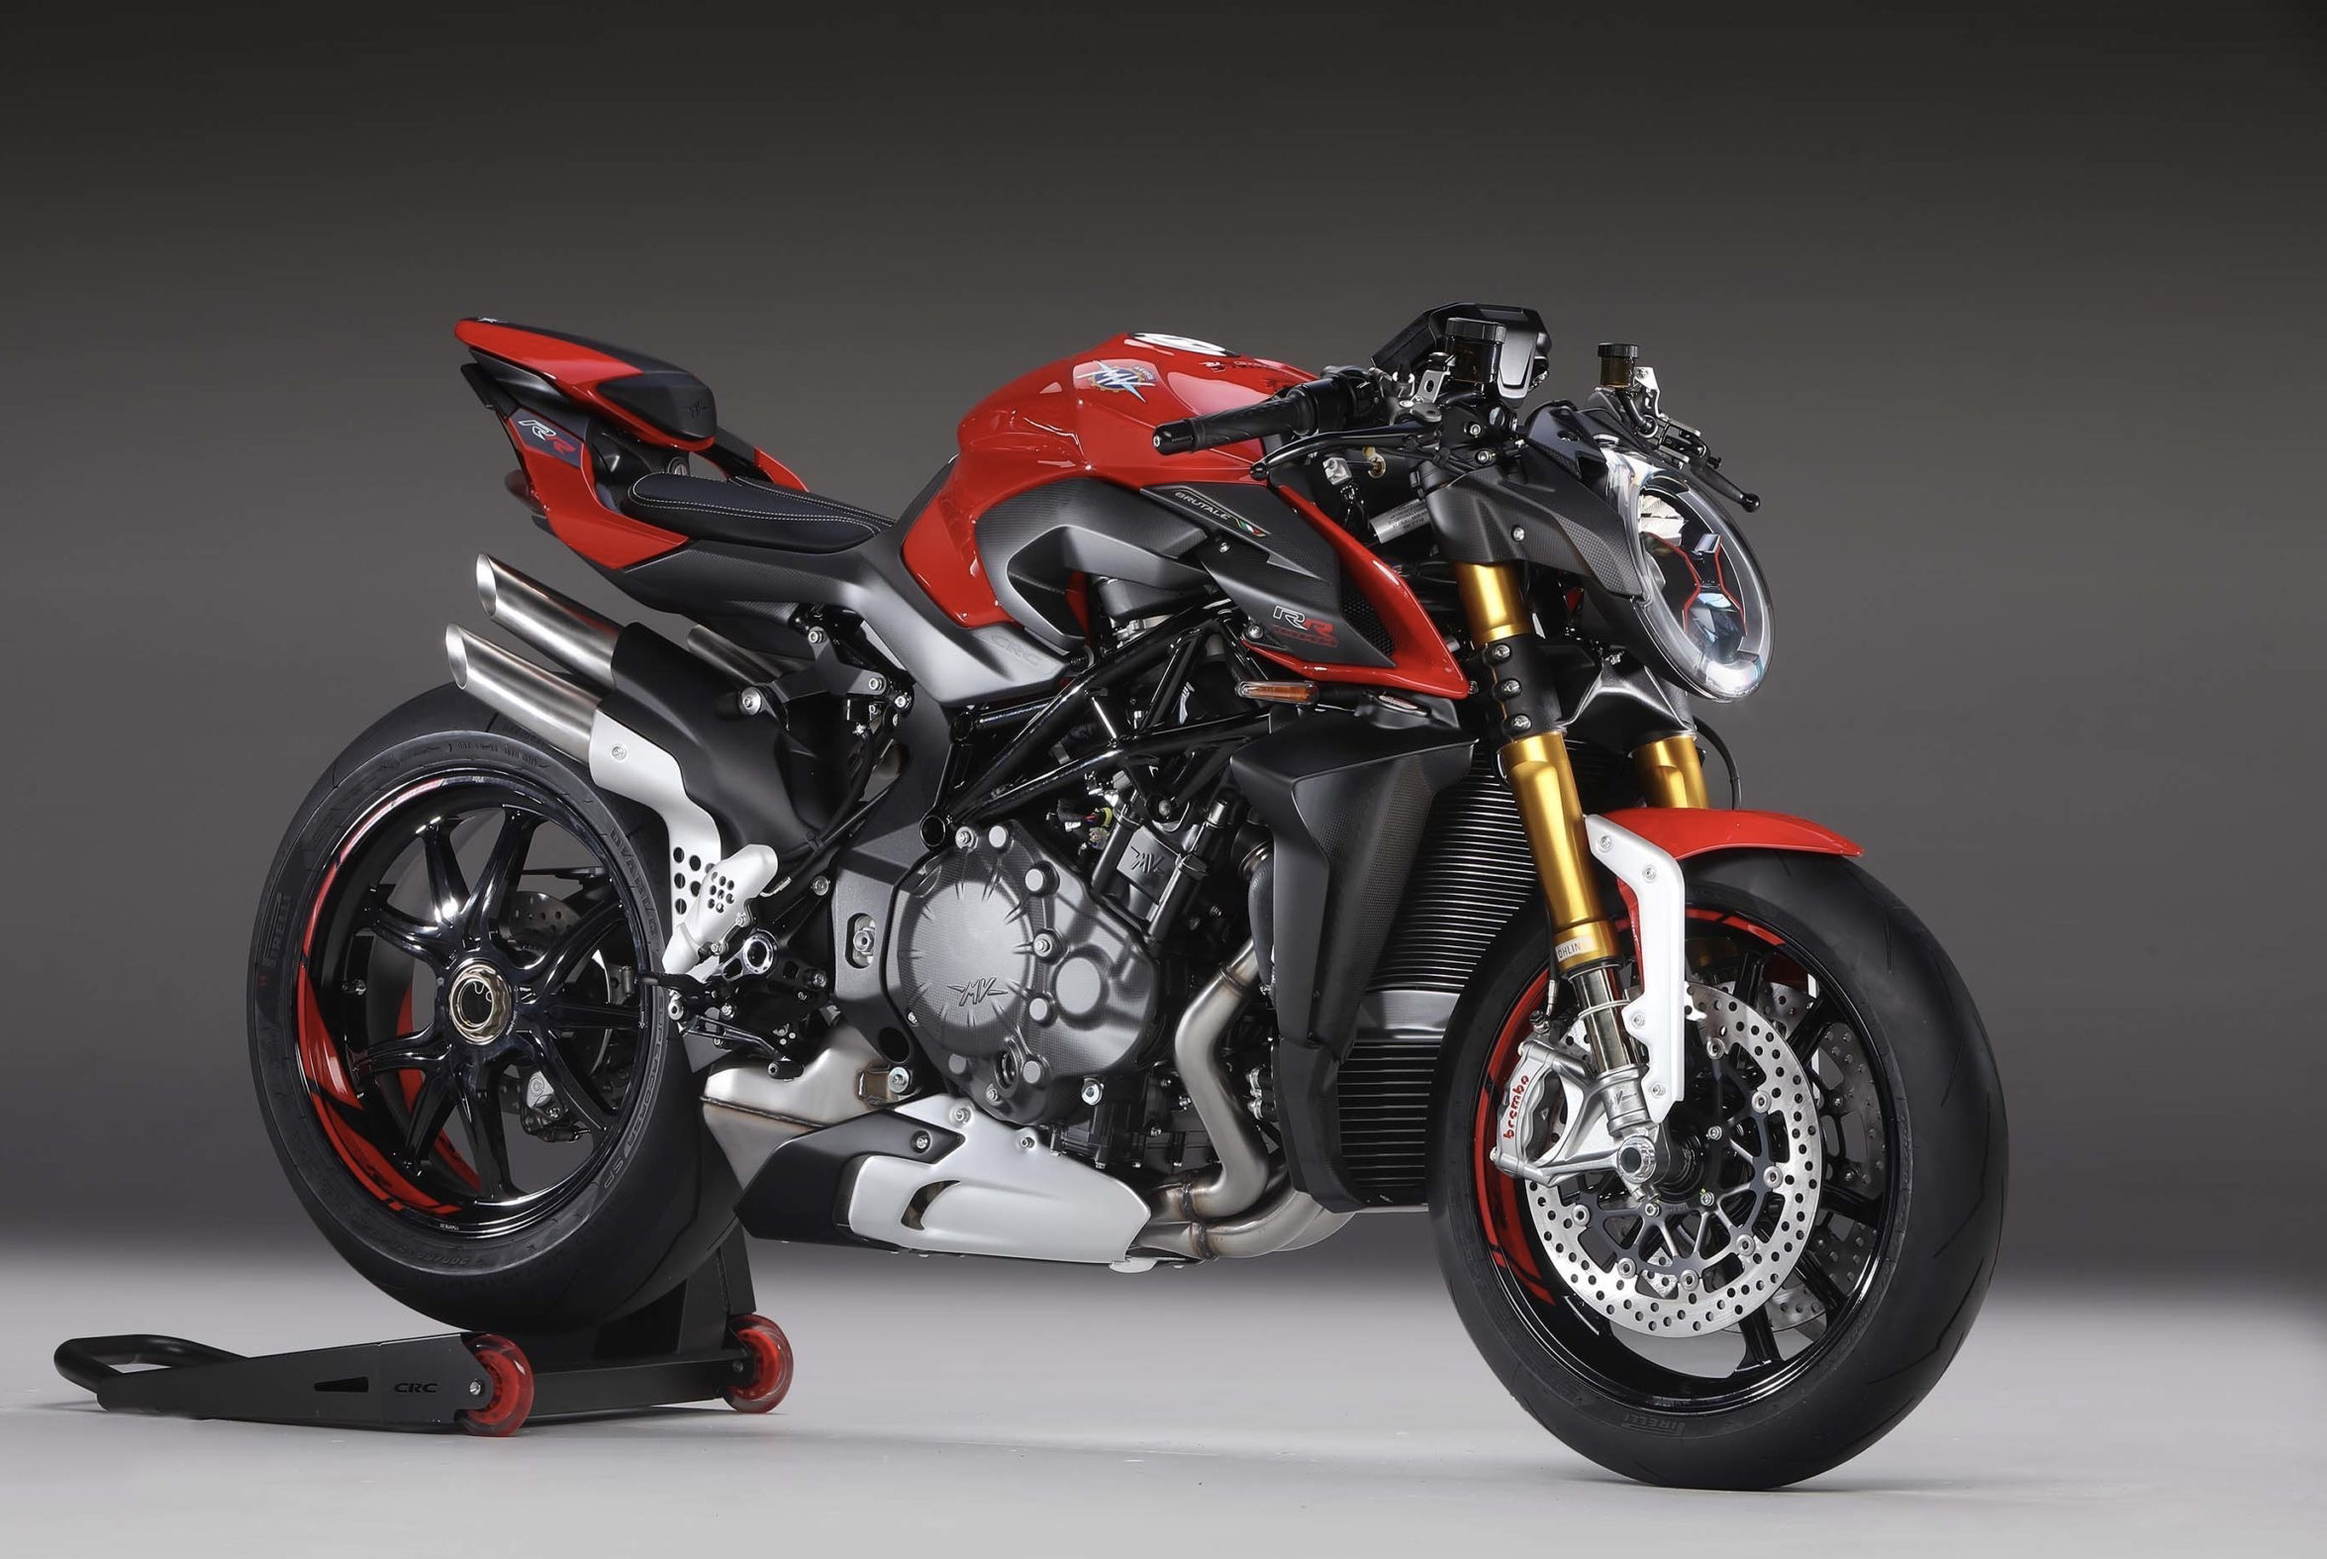
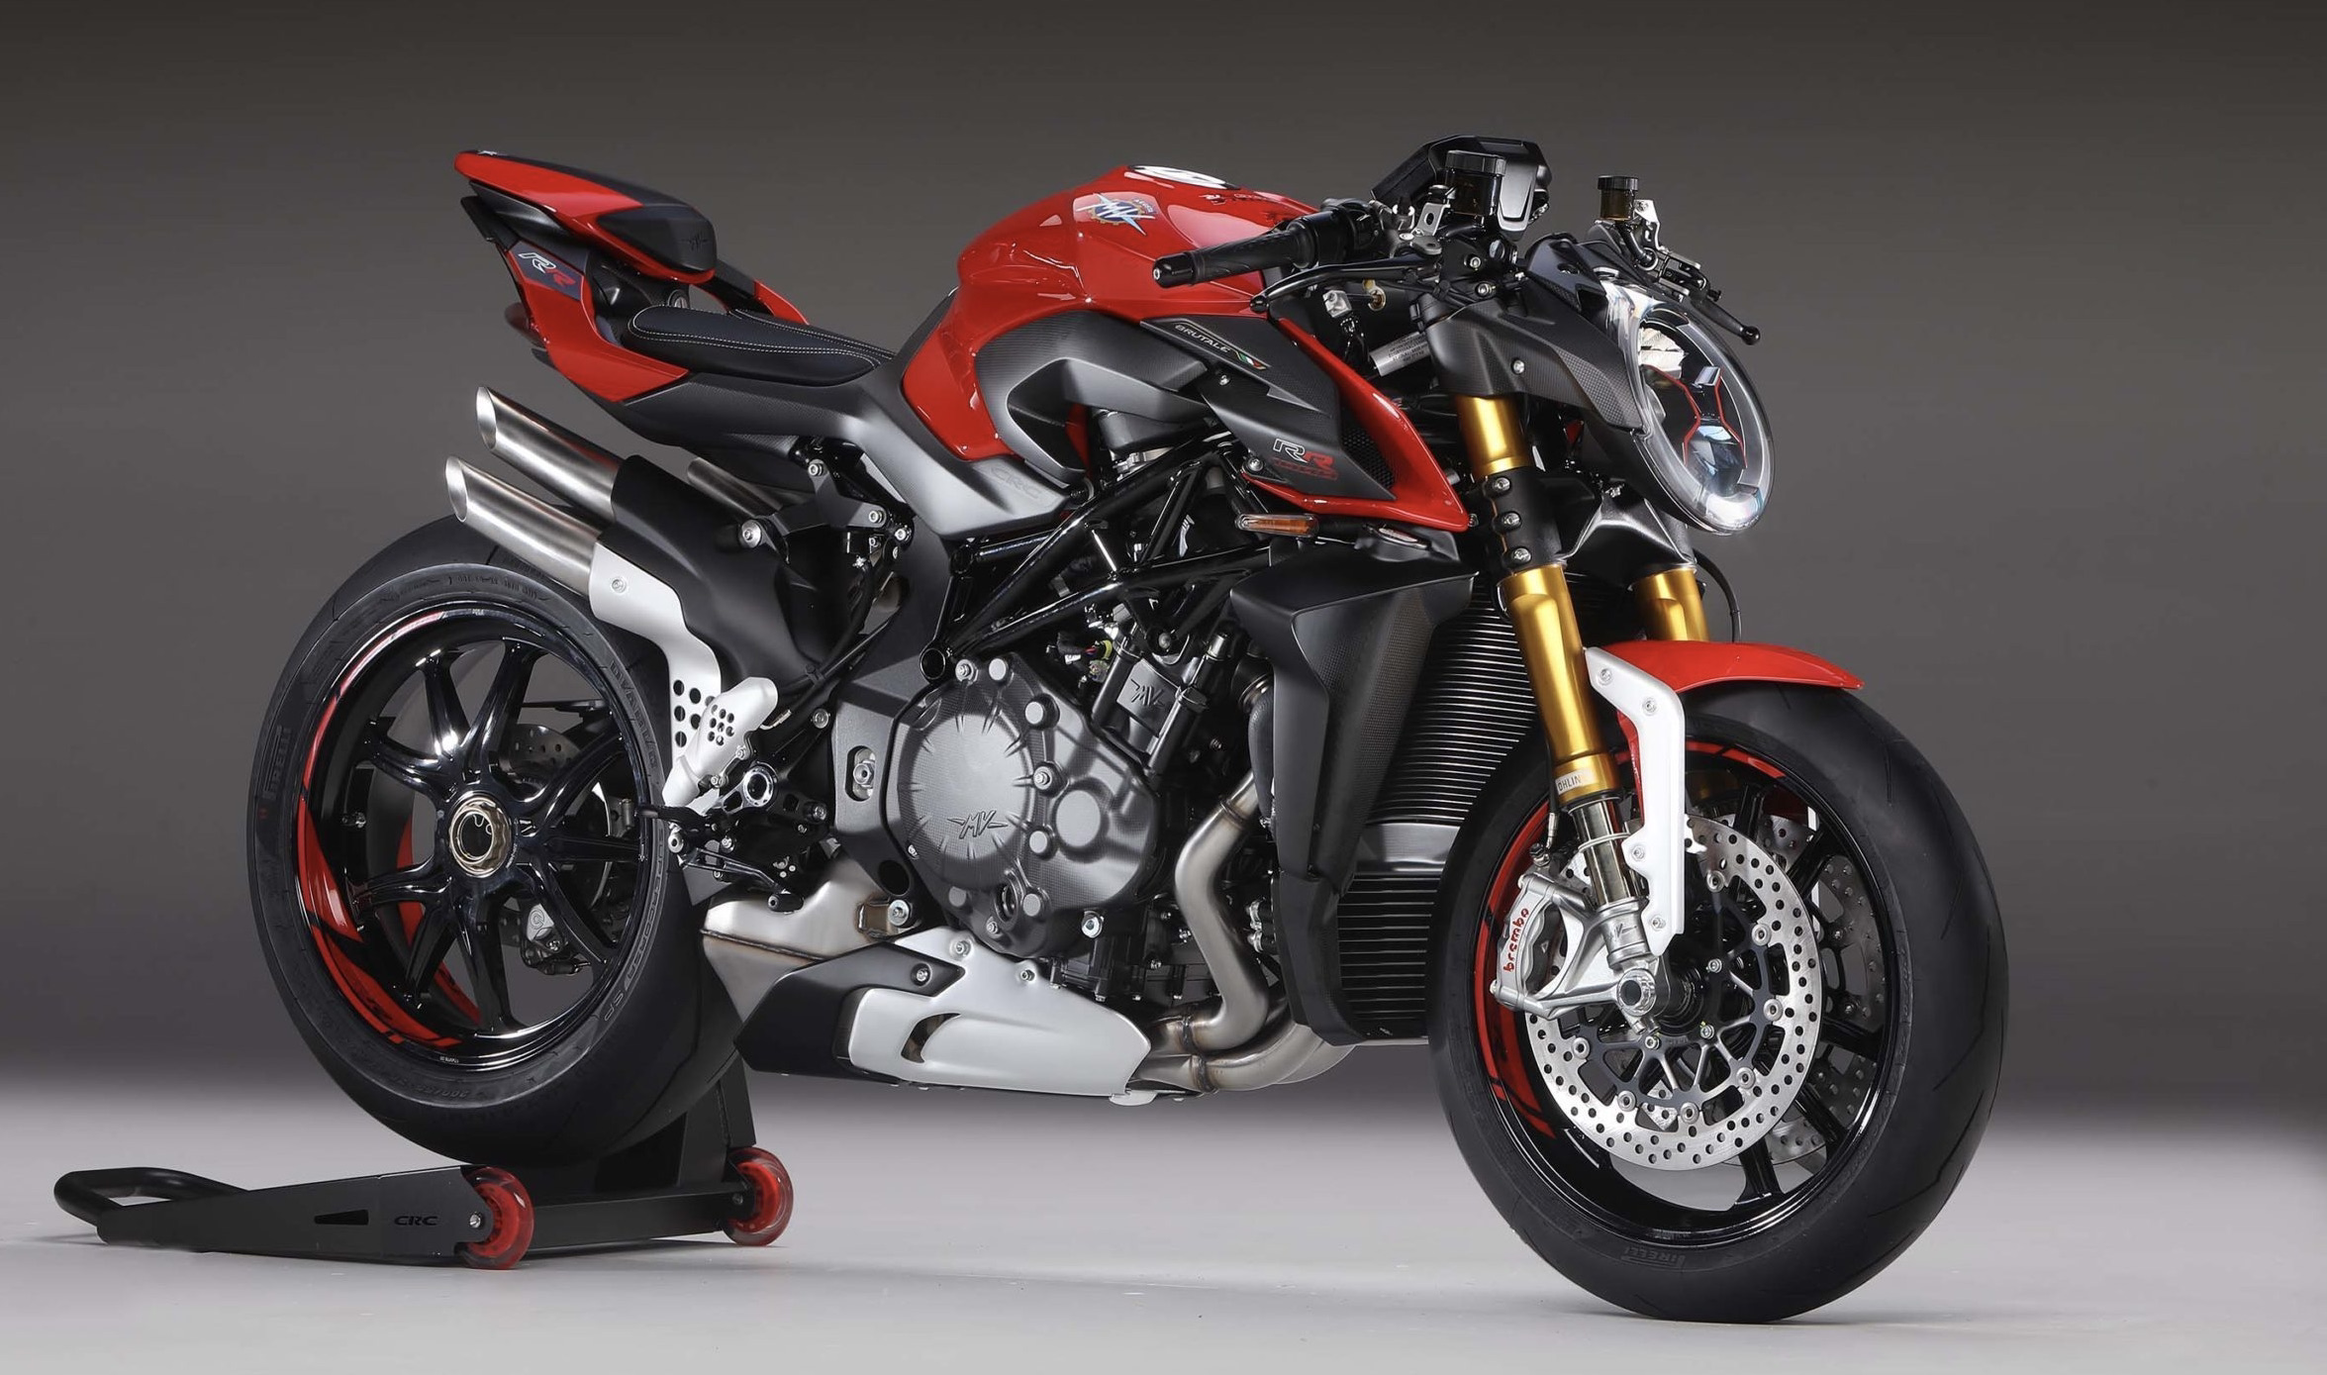
resize images and add css styling on blog.html

diff --git a/blog.html b/blog.html
@@ -39,7 +39,7 @@
         <h2>Let's ride!</h2>
     </div>
     <div class="container">
-        <div class="subcontainer weight-training">
+        <div class="subcontainer">
             <img src="./img/1.jpg" alt="BMW">
             <a href="#"><h1>The Dream - S1000RR!</h1></a> 
             <h1>16th April 2021</h1>
@@ -54,7 +54,7 @@
                 </div>
             </div>    
         </div>
-        <div class="subcontainer weight-training">
+        <div class="subcontainer">
             <img src="./img/2.jpg" alt="KTM">
             <a href="#"><h1>The Unbeatable KTM - Super Duke R 1290</h1></a> 
             <h1>15th April 2021</h1>
@@ -84,7 +84,7 @@
                 </div>
             </div>    
         </div>
-        <div class="subcontainer weight-training">
+        <div class="subcontainer">
             <img src="./img/4.jpeg" alt="MV">
             <a href="#"><h1>The Alien - MV Agusta Brutale 1000RR</h1></a> 
             <h1>10th March 2021</h1>
@@ -99,7 +99,7 @@
                 </div>
             </div>    
         </div>
-        <div class="subcontainer weight-training">
+        <div class="subcontainer">
             <img src="./img/5.jpeg" alt="GS1200">
             <a href="#"><h1>The Transformer - GS1200</h1></a> 
             <h1>9th March 2021</h1>
@@ -114,8 +114,6 @@
                 </div>
             </div>    
         </div>
- 
-       
     </div>
 </section>
 <footer>

diff --git a/css/style.css b/css/style.css
@@ -377,8 +377,8 @@ footer{
   border: #f6ff74 1px solid;
 }
 .subcontainer img{
-  width: 75%;
-  height: 55%;
+  width: 70%;
+  height: 50%;
   margin: 5px;
   transition: 0.8s;
 }
@@ -762,7 +762,7 @@ button:hover{
 }
 .card-header-2{
   height: 70vh;
-  padding: 60px 40px;
+  padding: 55px 37px;
   justify-content: space-around;
 }
 .intro{
@@ -811,8 +811,8 @@ button:hover{
   padding-left: 27%;
 }
 .study-intro{
-  width: 48%;
-  height: 48%;
+  width: 47%;
+  height: 46%;
   margin: 10px;
 }
 .study-intro:hover{
